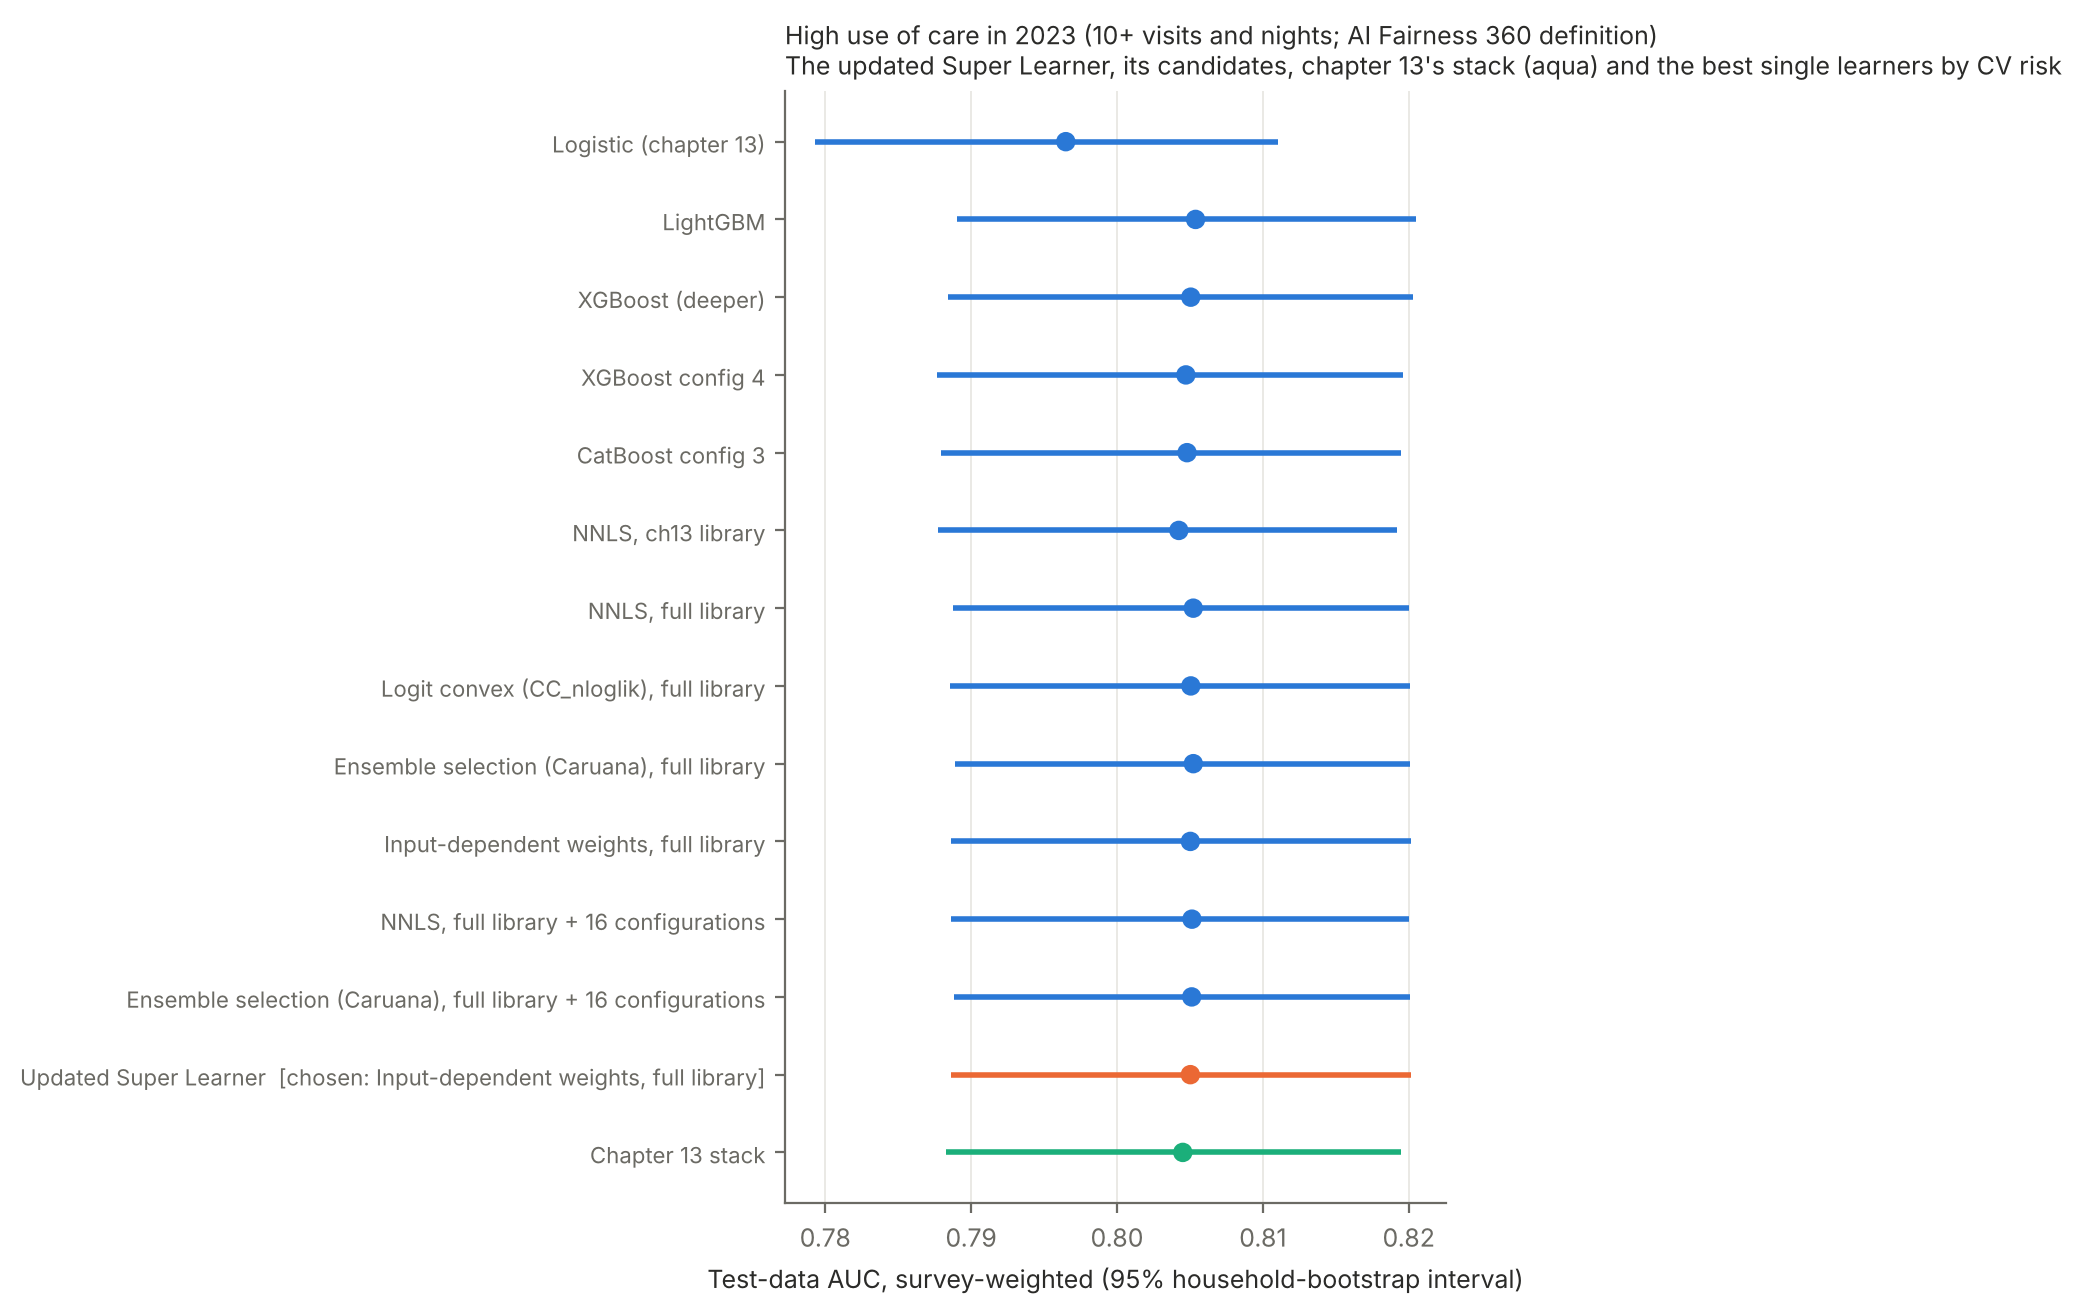
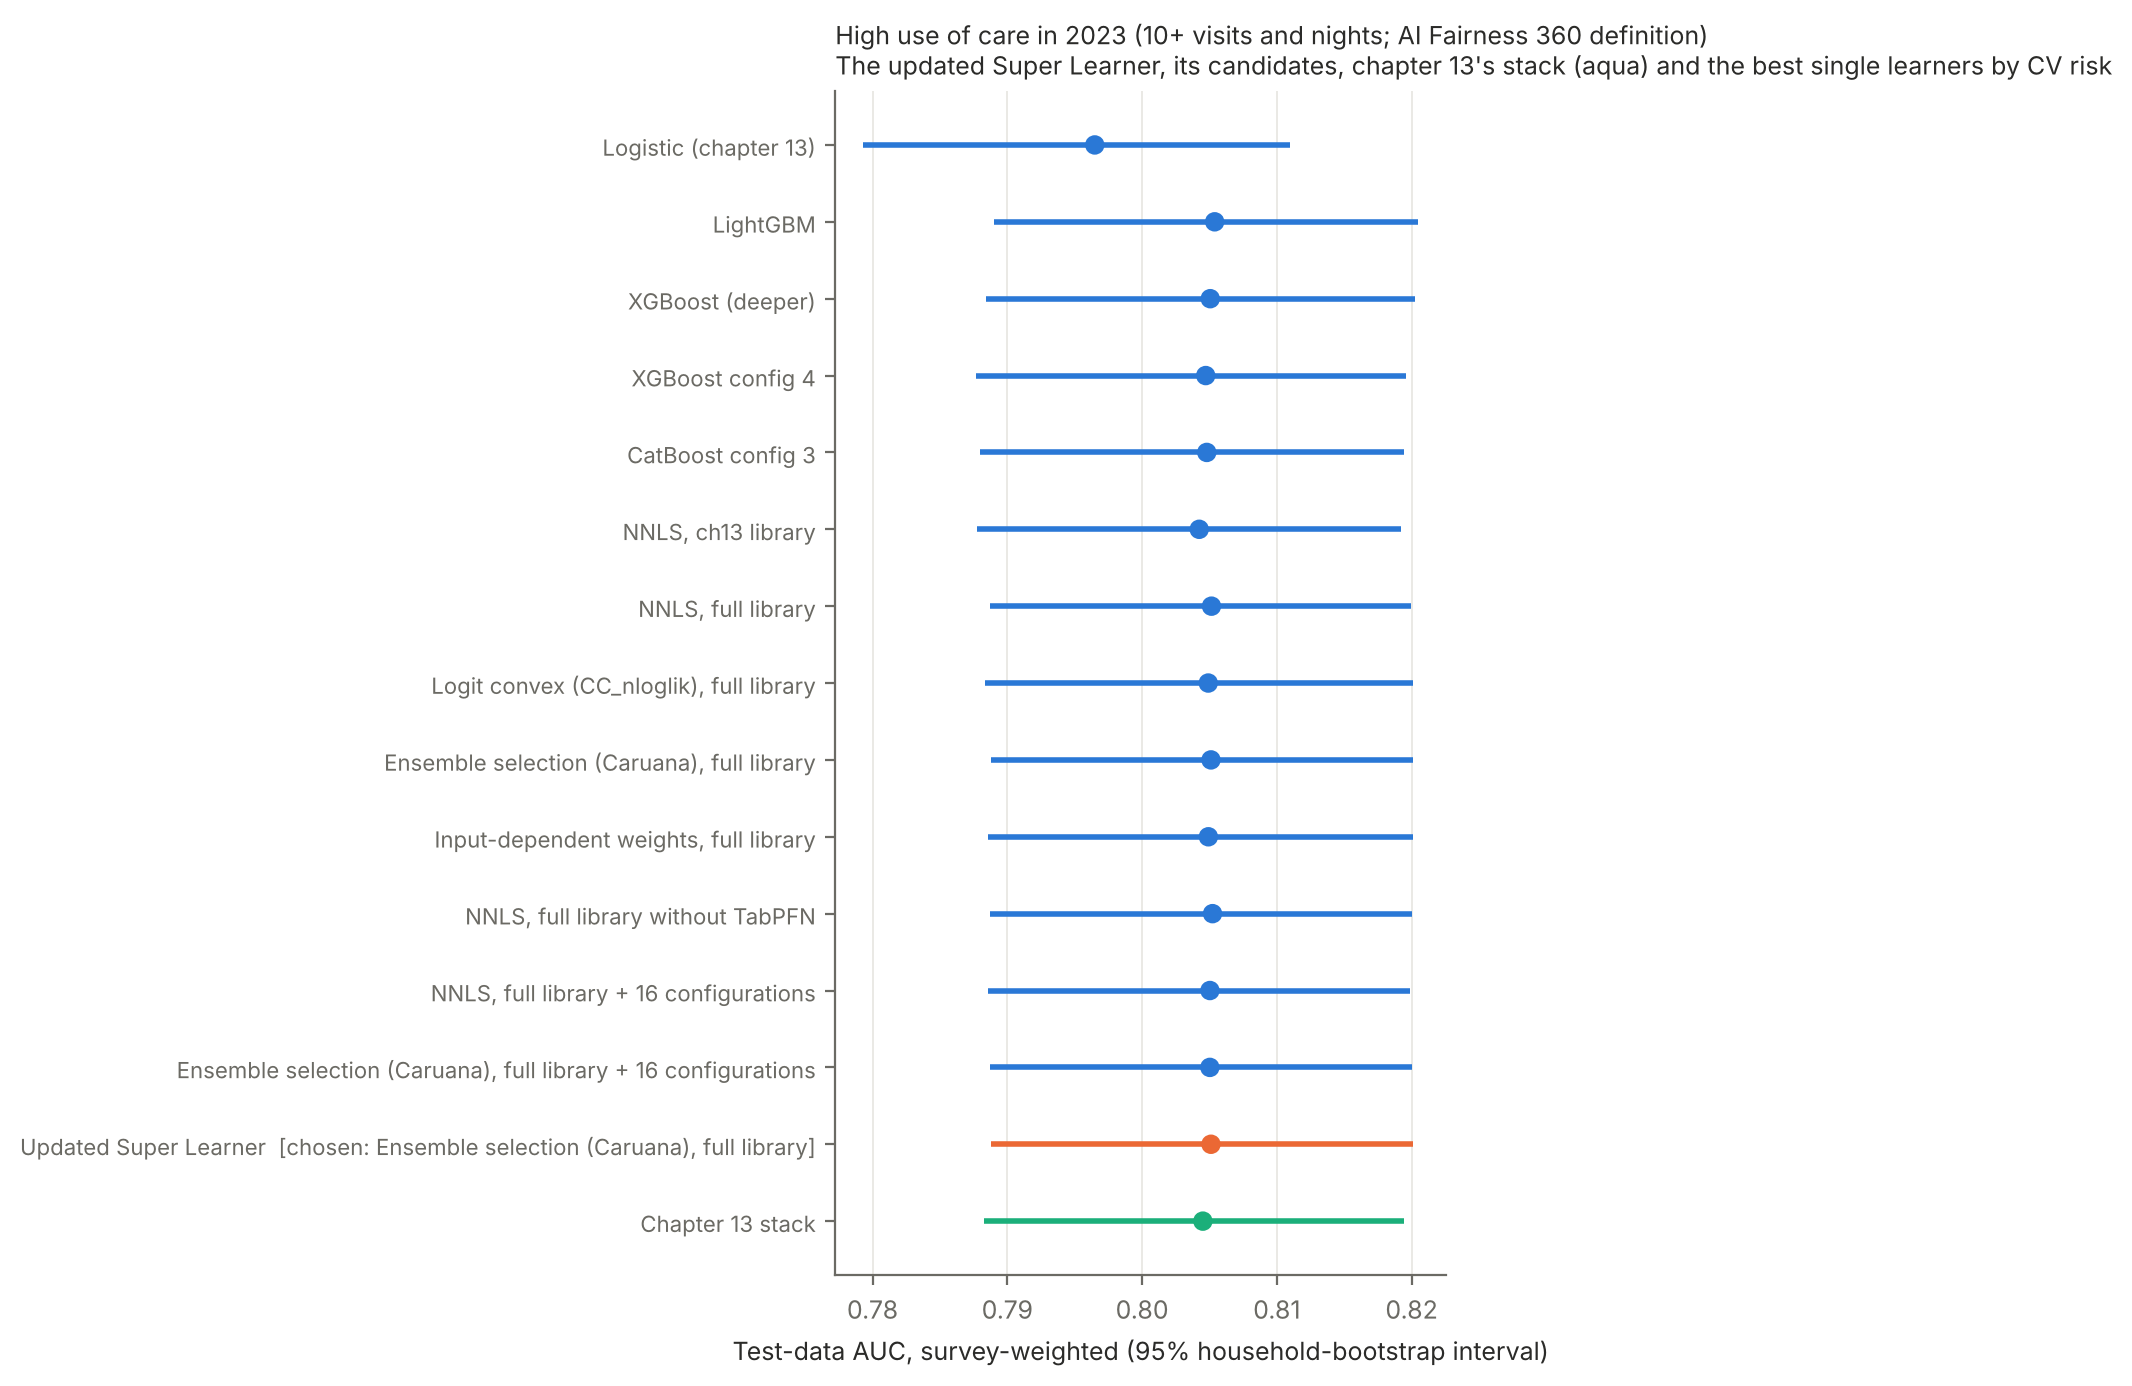
Chapter 14: TabPFN for high use (--tabpfn-large, one ensemble member, 62 min); updated table, weights and summary figure
Claude-Session: https://claude.ai/code/session_018F8ZW9s77ijECoM5gwaDJd

diff --git a/ml/python/ml_14_updated_super_learner.py b/ml/python/ml_14_updated_super_learner.py
@@ -40,7 +40,8 @@ Add --configs for 16 more random configurations of LightGBM, CatBoost and XGBoos
 post-hoc ensembling of many configurations; cached separately).
 
 Usage:  python ml/python/ml_14_updated_super_learner.py [S3 S3b S1 S2 S4]   (hours on 2 CPU cores, most of
-        it TabPFN -- add --no-foundation to leave it out: then about 15 minutes)
+        it TabPFN -- add --no-foundation to leave it out: then about 15 minutes). TabPFN is skipped for
+        high use (S4, 10,354 training rows) unless --tabpfn-large is given (about another hour).
 
 Eliot R. Weinstein
 eliotw@uchicago.edu
@@ -98,14 +99,15 @@ def extra_learners(kind, X, n):
             make_pipeline(spl, StandardScaler(), LogisticRegressionCV(Cs=10, cv=3, l1_ratios=[0.0], scoring="neg_log_loss",
                                                                        max_iter=5000)),
     }
-    if FOUNDATION and n < 7500:      # not for S4 (10,354 training rows): too slow on a CPU here
+    # For S4 (10,354 training rows) only with --tabpfn-large, and with one ensemble member: hours on a CPU
+    if FOUNDATION and (n < 7500 or "--tabpfn-large" in sys.argv):
         from tabpfn import TabPFNClassifier, TabPFNRegressor
         from tabpfn.constants import ModelVersion
         # TabM was tried and dropped: 32 minutes for five fits of the stays data on a shared 2-core CPU, and
         # weaker than the boosted trees there (as in chapter 11)
         # two ensemble members (the default is 8) to keep CPU time down
         lib["TabPFN v2"] = _Arr((TabPFNRegressor if reg else TabPFNClassifier).create_default_for_version(
-            ModelVersion.V2, device="cpu", random_state=1, ignore_pretraining_limits=True, n_estimators=2))
+            ModelVersion.V2, device="cpu", random_state=1, ignore_pretraining_limits=True, n_estimators=2 if n < 7500 else 1))
     return lib
 
 

diff --git a/ML_WALKTHROUGH.md b/ML_WALKTHROUGH.md
@@ -748,10 +748,10 @@ training rows.
 
 Two learners were tried and set aside. TabM (Gorishniy, Kotelnikov and Babenko
 2025) took 32 minutes for five fits of the stays data on this 2-core CPU, and
-the ensembles gave it almost no weight. TabPFN was run for the four problems
-with fewer than 5,000 training rows but not for high use (10,354 rows), where
-five fits would have taken hours on a CPU; it was run with two ensemble members
-instead of its default eight, for the same reason.
+the ensembles gave it almost no weight. TabPFN was run with two ensemble
+members instead of its default eight for the four problems with fewer than
+5,000 training rows, and with one for high use (10,354 rows; `--tabpfn-large`),
+where its five fold fits took 62 minutes on this 2-core CPU.
 
 The R version (`ml/R/ml_14_updated_super_learner.R`) uses the SuperLearner
 package itself: the same kinds of learners (with MARS and a GAM in place of the
@@ -768,10 +768,10 @@ household-bootstrap 95% intervals:
 | | S1 log spending | S2 top 10% | S3 log nights | S3b week or more | S4 high use |
 |---|---|---|---|---|---|
 | Chapter 13's stack (Python) | 0.4960 | 0.8186 | 0.2087 | 0.7727 | 0.8045 |
-| Updated Super Learner (Python) | 0.4965 | 0.8196 | 0.2107 | 0.7750 | 0.8050 |
-| its gain | +0.0005 (−0.004, 0.006) | +0.0010 (−0.001, 0.003) | +0.0021 (−0.005, 0.010) | +0.0023 (−0.003, 0.008) | +0.0005 (−0.001, 0.002) |
-| what it chose | input-dependent weights | NNLS, chapter 13's learners | NNLS, full library without TabPFN | ensemble selection, + 16 configurations | input-dependent weights |
-| Full library, NNLS (Python): gain | +0.0007 (−0.003, 0.004) | +0.0027 (0.000, 0.006) | +0.0056 (−0.002, 0.014) | +0.0026 (−0.002, 0.008) | +0.0007 (−0.001, 0.002) |
+| Updated Super Learner (Python) | 0.4965 | 0.8196 | 0.2107 | 0.7750 | 0.8051 |
+| its gain | +0.0005 (−0.004, 0.006) | +0.0010 (−0.001, 0.003) | +0.0021 (−0.005, 0.010) | +0.0023 (−0.003, 0.008) | +0.0006 (−0.001, 0.002) |
+| what it chose | input-dependent weights | NNLS, chapter 13's learners | NNLS, full library without TabPFN | ensemble selection, + 16 configurations | ensemble selection, full library |
+| Full library, NNLS (Python): gain | +0.0007 (−0.003, 0.004) | +0.0027 (0.000, 0.006) | +0.0056 (−0.002, 0.014) | +0.0026 (−0.002, 0.008) | +0.0006 (−0.001, 0.002) |
 | Updated Super Learner (R): gain | 0.0000 | +0.0062 (0.004, 0.009) | +0.0044 (−0.003, 0.012) | −0.0004 (−0.007, 0.006) | +0.0031 (0.001, 0.006) |
 
 ![The updated Super Learner against chapter 13's stack](docs/ml/fig14_summary.png)
@@ -789,15 +789,19 @@ household-bootstrap 95% intervals:
    other. What changed the predictions was the new learners: for nights per stay
    the full-library stack put 0.24 on LightGBM, 0.20 on extremely randomized
    trees, 0.19 on TabPFN, 0.19 on XGBoost and 0.11 on the SVM, where chapter
-   13's had put 0.46 on XGBoost and 0.25 on the SVM; for high use, 0.23 on the
-   deeper XGBoost and 0.17 each on CatBoost and LightGBM.
+   13's had put 0.46 on XGBoost and 0.25 on the SVM; for high use, 0.22 on the
+   deeper XGBoost, 0.18 on OLS, 0.16 on LightGBM, 0.15 on CatBoost and 0.11 on
+   TabPFN, where chapter 13's had put 0.43 on XGBoost and 0.31 on OLS.
 3. **TabPFN was the best single learner twice and the worst once.** Alone, it had
    the highest test AUC of anything for the top 10% (0.8235, above every
    ensemble) and for a week-long stay (0.7752), but R² 0.460 for log spending,
-   below OLS, as in chapter 11. Ensembles gave it 0.18–0.22 of the weight for
-   both spending problems and for nights per stay, and none for long stays.
-   With two of its eight ensemble members, on a CPU, it took 17–33 minutes per
-   problem, more than everything else together.
+   below OLS, as in chapter 11, and AUC 0.800 for high use, below the three
+   boosting methods (0.804–0.805). Ensembles gave it 0.18–0.22 of the weight
+   for both spending problems and for nights per stay, 0.11–0.16 for high use,
+   and none for long stays. With two of its eight ensemble members, on a CPU, it
+   took 17–33 minutes per problem, more than everything else together, and with
+   one member 62 minutes for high use; adding it to the high-use library changed
+   the updated Super Learner's gain by 0.0001.
 4. **Choosing among near-ties cost a little.** The simplest update, the full
    library combined by NNLS with nothing chosen, gained in all five problems
    (+0.0007 to +0.0056; for the top 10% its interval excludes zero), and more

diff --git a/README.md b/README.md
@@ -139,7 +139,8 @@ python ml/python/ml_13a_stays_extract.py "C:/Users/YOU/folder/MEPS raw"   # or R
 python ml/python/ml_13_model_comparison.py          # S1-S4 (~35 min); or Rscript ml/R/ml_13_model_comparison.R (~2 hours)
 python ml/python/ml_13c_summary.py                  # one figure and table across scenarios and languages
 python ml/python/ml_14_updated_super_learner.py --configs   # chapter 14 (hours on a CPU, most of it TabPFN;
-                                                            # add --no-foundation to skip it: about 30 minutes)
+                                                            # add --no-foundation to skip it: about 30 minutes;
+                                                            # add --tabpfn-large to fit it for high use too: +1 hour)
 Rscript ml/R/ml_14_updated_super_learner.R                  # the SuperLearner-package version (about an hour)
 ```
 
